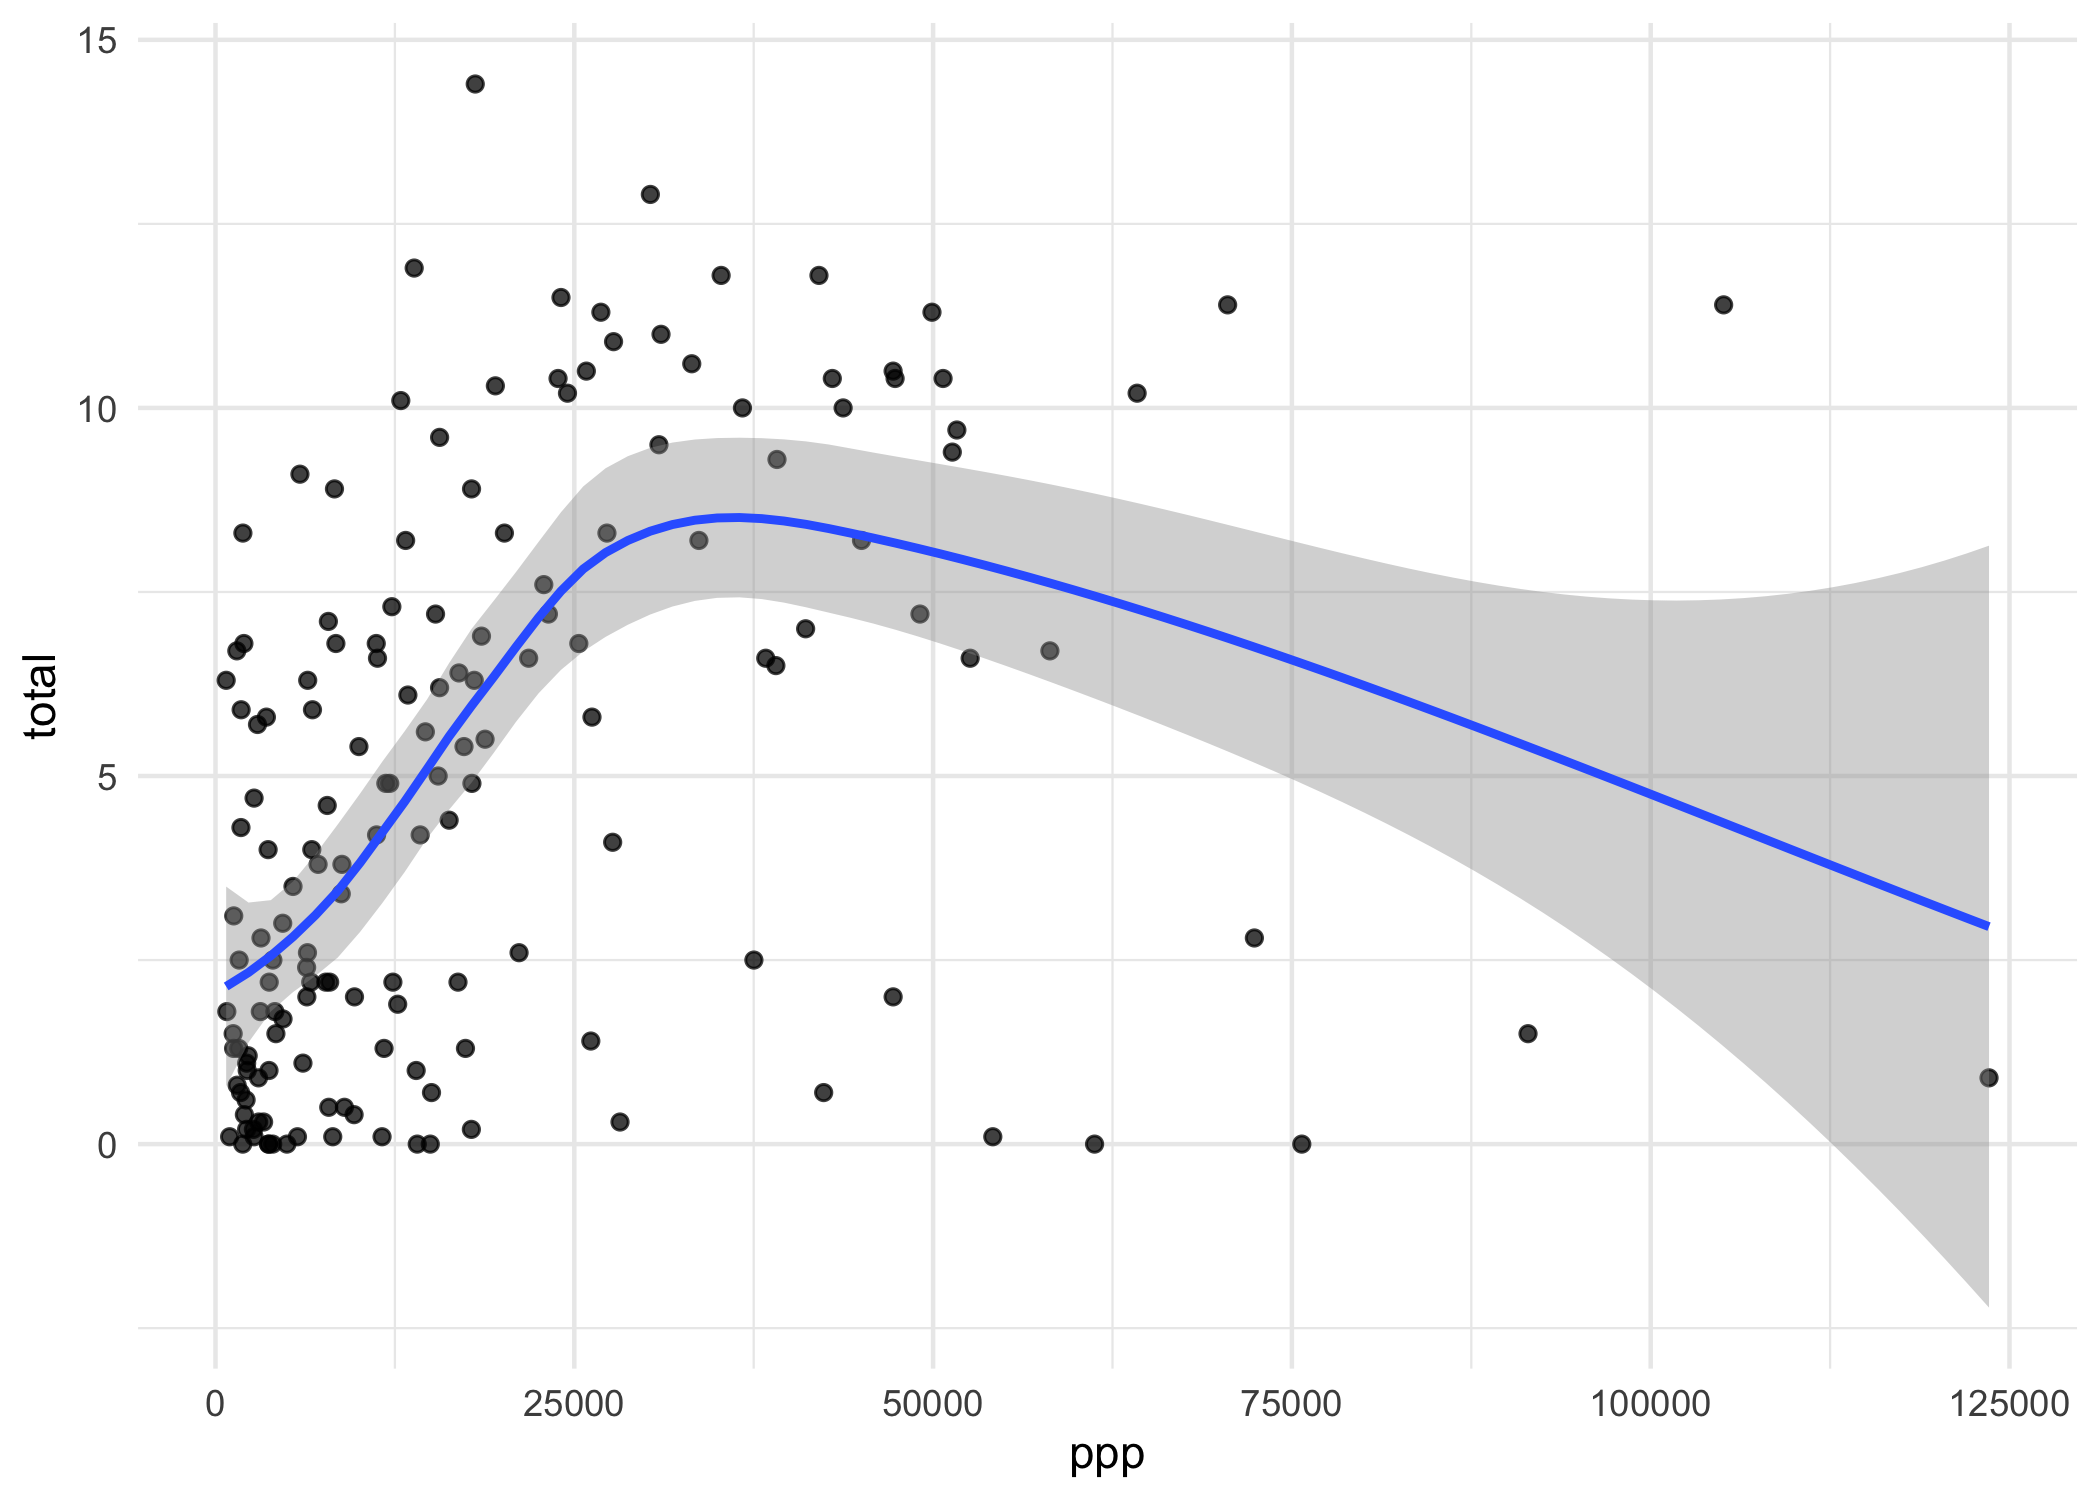
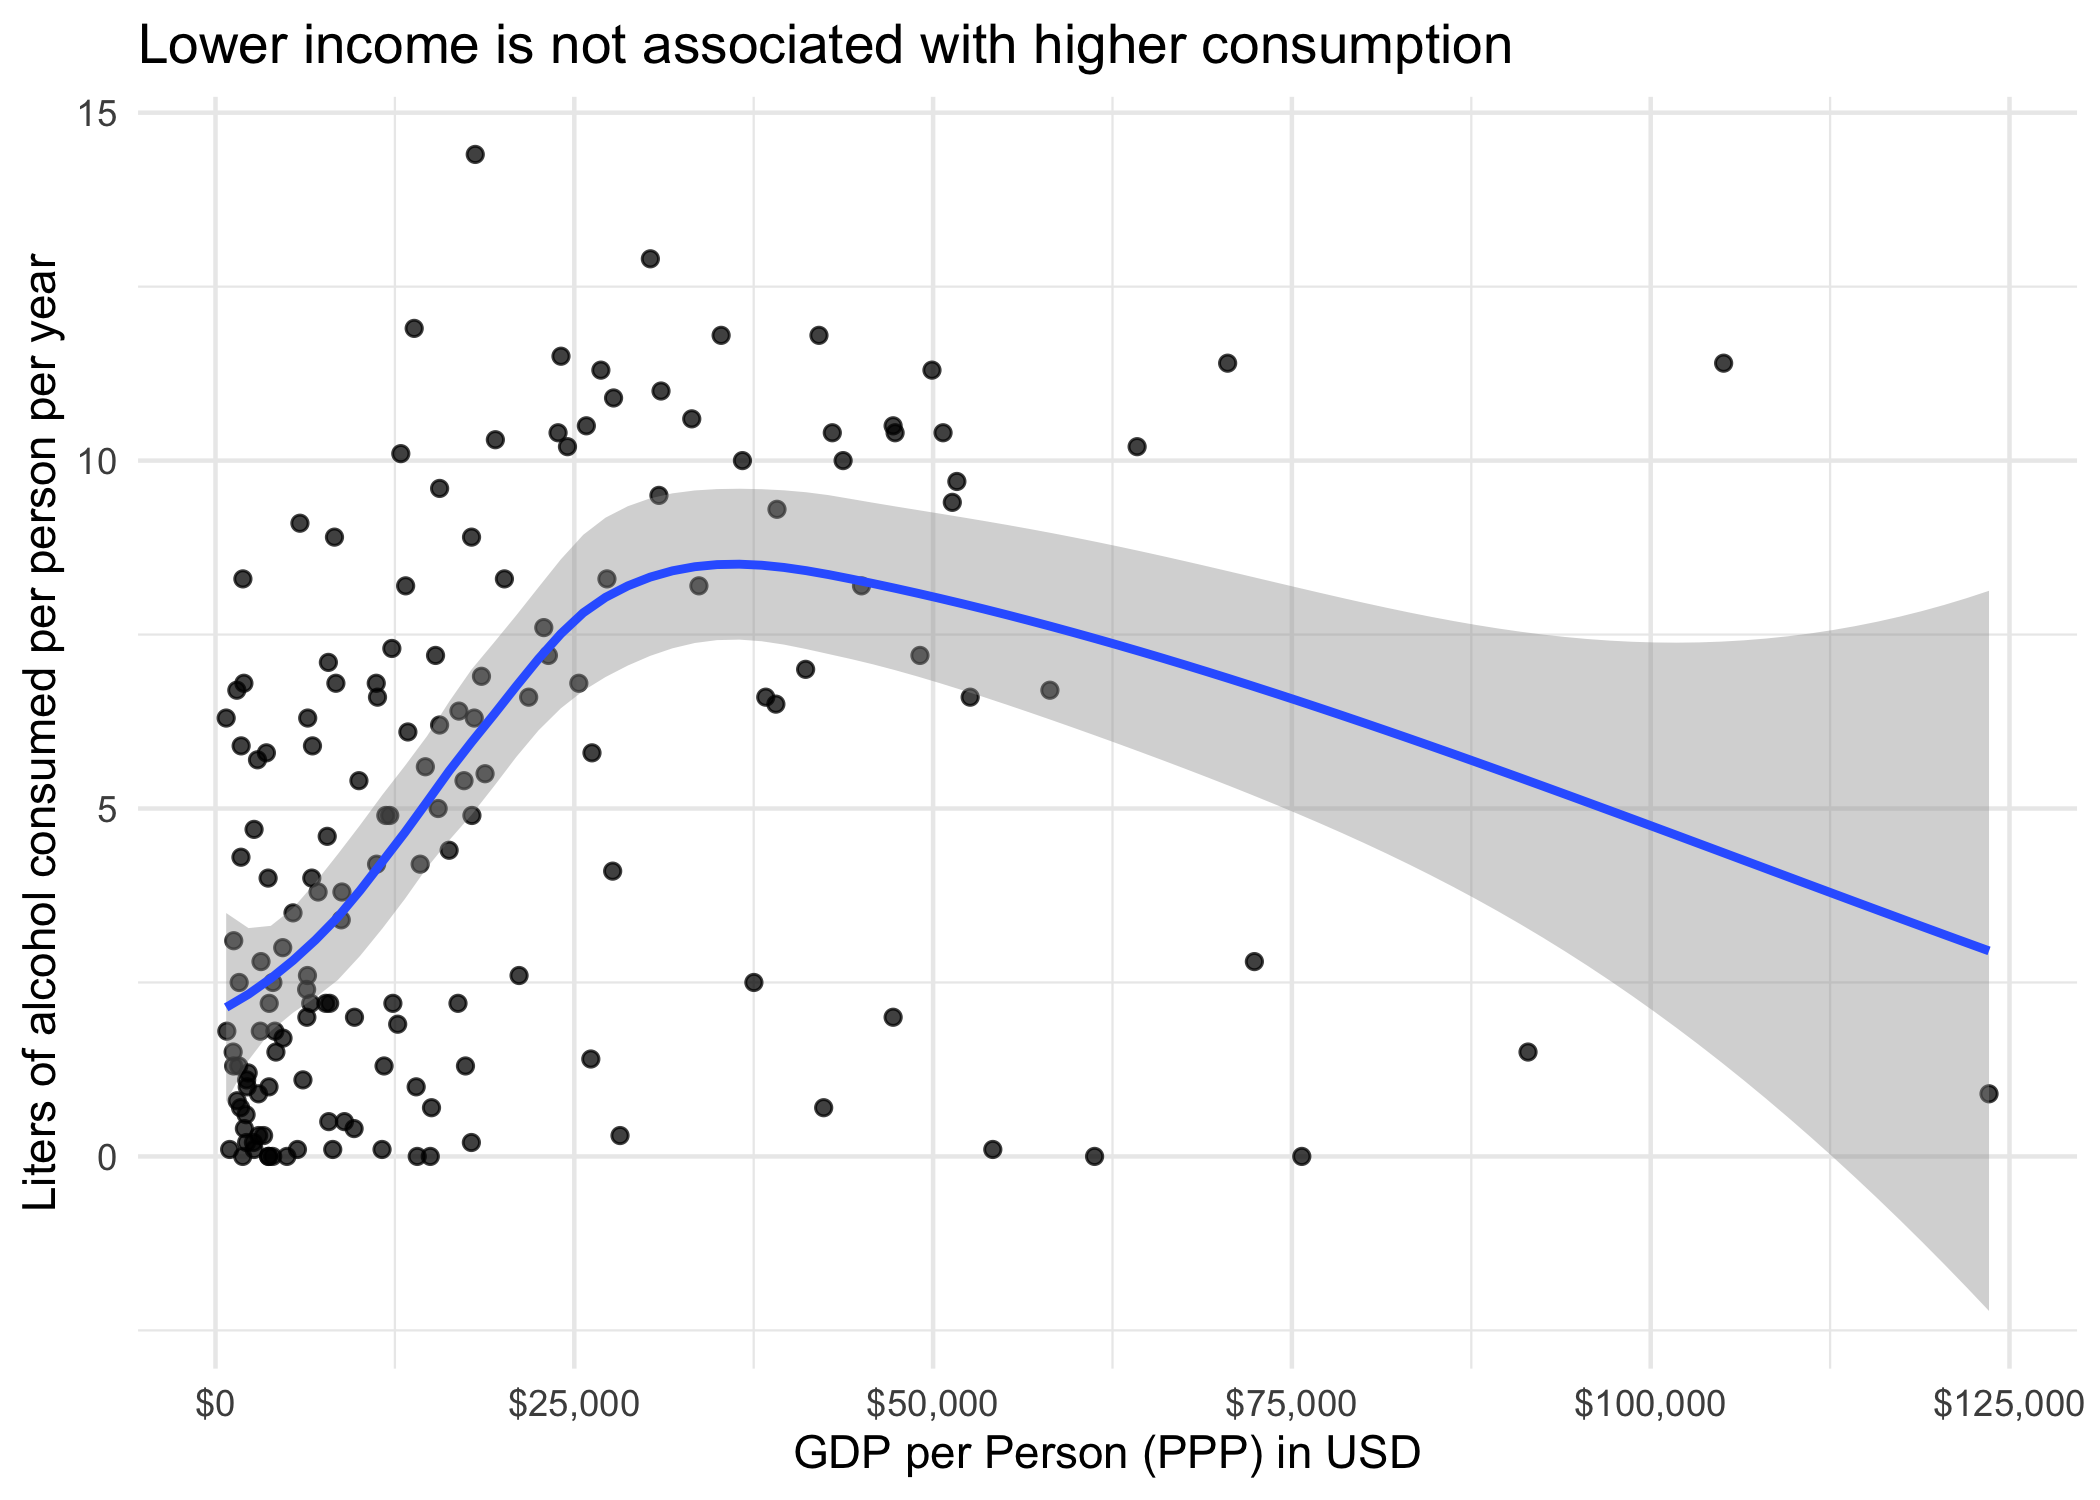
update x axis to use USD in report

diff --git a/analysis/drinks_eda.md b/analysis/drinks_eda.md
@@ -7,8 +7,7 @@ July 7, 2017
 
 This script explores global norms of alcohol consumption. I performed
 this analysis because I had no idea what alcohol consumption looked like
-globally, and I wanted to
-know.
+globally, and I wanted to know.
 
 ![](figs/unnamed-chunk-2-1.png)<!-- -->
 
@@ -16,9 +15,11 @@ know.
 
 ![](figs/unnamed-chunk-4-1.png)<!-- -->
 
-![](figs/unnamed-chunk-5-1.png)<!-- -->![](figs/unnamed-chunk-5-2.png)<!-- -->
+![](figs/unnamed-chunk-5-1.png)<!-- -->
 
 ![](figs/unnamed-chunk-6-1.png)<!-- -->
+
+![](figs/unnamed-chunk-7-1.png)<!-- -->
 
 TBD: Add in religion as a variable.
 
